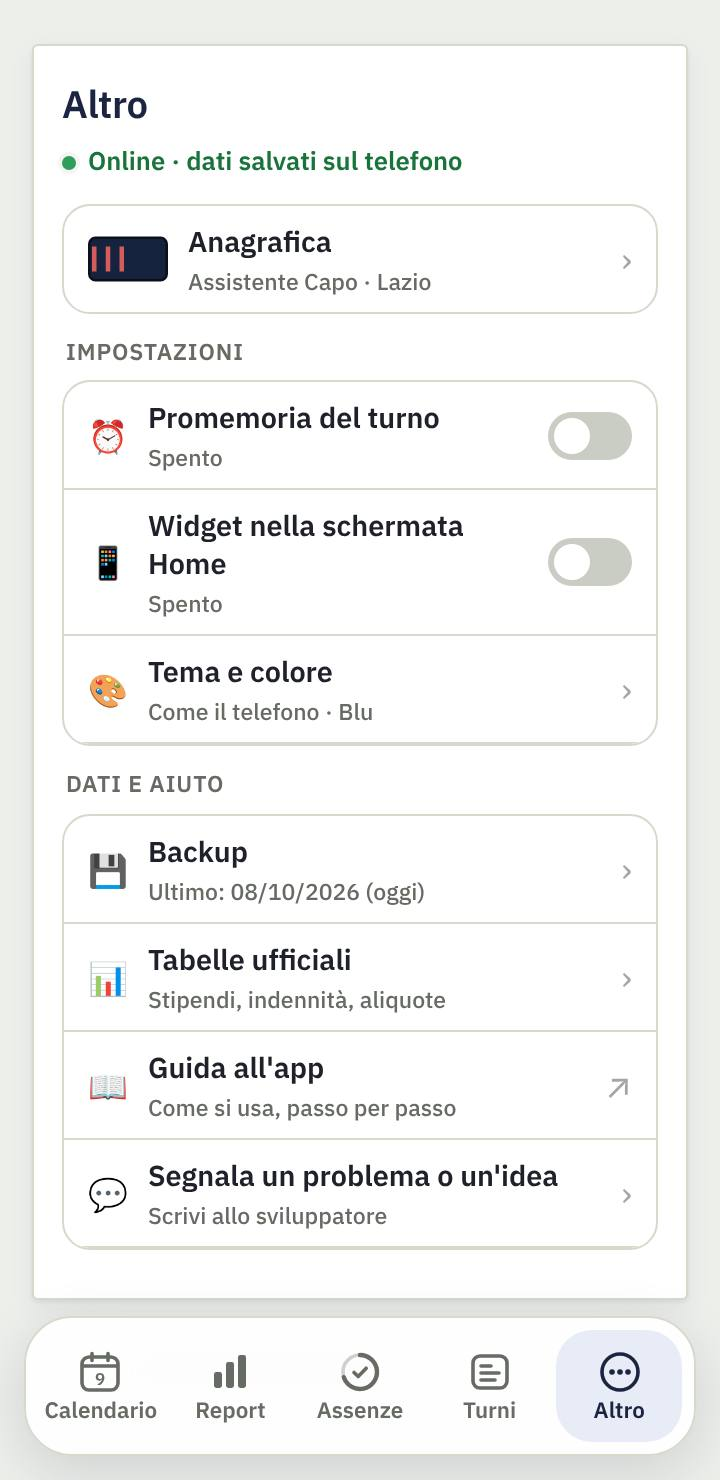
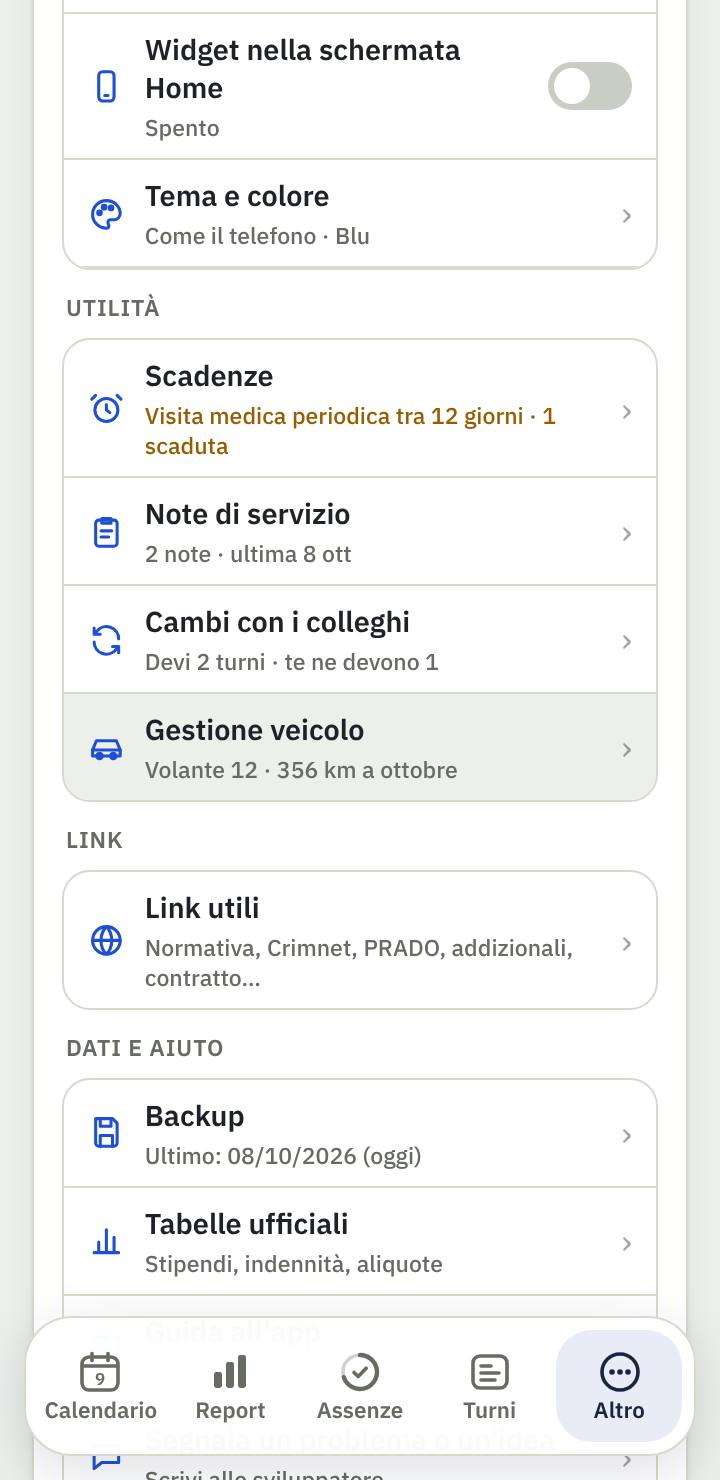
Guida Turni: nuove immagini (calendario, agenda, giorno, Altro, Utilità, veicolo, Normativa, Cerca nelle leggi) e scheda app aggiornata
Claude-Session: https://claude.ai/code/session_01PSeREU5gDDB7bRrUAU7GkJ

diff --git a/guida-turni.html b/guida-turni.html
@@ -208,7 +208,7 @@ a{color:#2E4A8F}
 <li><b>Guida all'app</b>: apre questa pagina.</li>
 <li><b>Segnala un problema o un'idea</b>: apre l'email già scritta, con versione e telefono.</li>
 </ul>
-</div><img src="turni/guida/altro.jpg" alt="Impostazioni in Altro" loading="lazy"></div>
+</div><img src="turni/guida/altro.jpg" alt="Altro: Utilità e Link utili" loading="lazy"></div>
 <h3>Anagrafica</h3>
 <div class="sez"><div>
 <p>I dati che servono al netto. In particolare:</p>
@@ -238,19 +238,29 @@ a{color:#2E4A8F}
 
 <h3 id="utilita">Utilità</h3>
 <p>In <b>Altro → Utilità</b> trovi quattro strumenti. I dati restano sul telefono ed entrano nel backup. Non inserire dati personali di cittadini.</p>
+<div class="sez"><div>
 <ul>
 <li><b>Scadenze</b>: visita medica, tiro, tesserino, patente di servizio, corsi. Scegli la data, se si ripete (ogni anno, ogni 2 anni…) e quando avvisarti (1 mese prima, 1 settimana, il giorno). Quando ne manca meno di un mese compare una striscia in cima al calendario. Con «Fatta: sposta alla prossima» si rinnova da sola.</li>
 <li><b>Note di servizio</b>: appunti veloci, da cercare, fissare in alto, legare a un giorno o dettare a voce.</li>
 <li><b>Cambi con i colleghi</b>: chi ti ha sostituito e chi hai sostituito, con il saldo (devi / ti devono) e il tasto «Restituito». È solo un promemoria: non cambia la paga.</li>
+</ul>
+</div><img src="turni/guida/utilita.jpg" alt="Scadenze" loading="lazy"></div>
+<div class="sez"><div>
+<ul>
 <li><b>Gestione veicolo</b>: i tuoi mezzi (sigla e targa) e le uscite con presa e riconsegna, km (scritti o dettati, i km percorsi si calcolano da soli), carburante, rifornimento, collega, anomalie e appunti. In una nuova uscita i km di partenza sono quelli lasciati l'ultima volta.</li>
 </ul>
+</div><img src="turni/guida/veicolo.jpg" alt="Gestione veicolo" loading="lazy"></div>
 <p>Le stesse cose si aggiungono anche dal giorno: tocca il turno e, sotto «Altro per questo giorno», trovi <b>Veicolo</b>, <b>Scambio con un collega</b> e <b>Note di servizio</b>.</p>
 <p>Veicolo, note e scambi si vedono anche sotto il giorno selezionato, in <b>Settimana</b> e in <b>Agenda</b>; toccandoli si apre la scheda. La lente dell'Agenda cerca anche nelle note e nelle uscite del veicolo (mezzo, targa, anomalie).</p>
 
 <h3 id="link">Link utili</h3>
 <p>In <b>Altro → Link utili</b> trovi i siti ufficiali più usati, ognuno con la fonte: <b>Crimnet</b> (veicoli e documenti rubati o smarriti), <b>PRADO</b> (documenti d'identità e di viaggio originali), <b>Normattiva</b> (codici e leggi in vigore), le <b>addizionali</b> regionali e comunali del MEF, il <b>contratto</b> sui siti di SIULP e SAP e <b>Viaggiare Sicuri</b>. Si aprono nel browser. Con «＋ Link» aggiungi i tuoi.</p>
+<div class="sez"><div>
 <p>Nella sezione <b>Normativa</b> ci sono i collegamenti al testo in vigore su Normattiva: Codice penale e di procedura penale, TULPS e il suo regolamento, Codice della strada, Legge 121/1981 e Regolamento di servizio (D.P.R. 782/1985). Tocca ☆ per mettere in cima quelle che usi di più. L'app non copia i testi: apre sempre la pagina ufficiale.</p>
+</div><img src="turni/guida/link.jpg" alt="Link utili: Normativa" loading="lazy"></div>
+<div class="sez"><div>
 <p>Con <b>Cerca nelle leggi</b> scrivi una parola (es. «perquisizione») e premi Cerca: l'app chiede a Normattiva l'elenco delle leggi che la contengono, 10 alla volta («Mostra altri» per continuare). Puoi ordinarle «Più recenti» o «Più vecchie» e filtrarle per tipo (Leggi, D.Lgs., D.L., D.P.R.…: accanto c'è quante sono). «✕ Chiudi» cancella la ricerca e chiude la lista. Tocca una legge per aprirne il testo sul sito ufficiale. Serve internet; la parola viene inviata a Normattiva, quindi non scrivere dati personali. I risultati non sono in ordine di importanza: per i codici di tutti i giorni usa l'elenco Normativa.</p>
+</div><img src="turni/guida/leggi.jpg" alt="Cerca nelle leggi con ordine e filtri" loading="lazy"></div>
 <p>Il tasto <b>indietro</b> di Android chiude la scheda aperta (non l'app). Le note di servizio si salvano da sole quando le chiudi.</p>
 
 <h3 id="backup">Backup</h3>

diff --git a/index.html b/index.html
@@ -720,8 +720,11 @@
 
             <p>
               Turni a colori, indennità e cedolino simulato per il personale
-              della Polizia di Stato. Promemoria, widget ed esportazione in
-              Google Calendar. I dati restano sul telefono.
+              della Polizia di Stato. Agenda, detta a voce, scadenze, note di
+              servizio, cambi con i colleghi e gestione veicolo. Link utili con
+              la normativa e la ricerca nelle leggi su Normattiva. Promemoria,
+              widget ed esportazione in Google Calendar. I dati restano sul
+              telefono.
             </p>
 
             <div class="tags">
